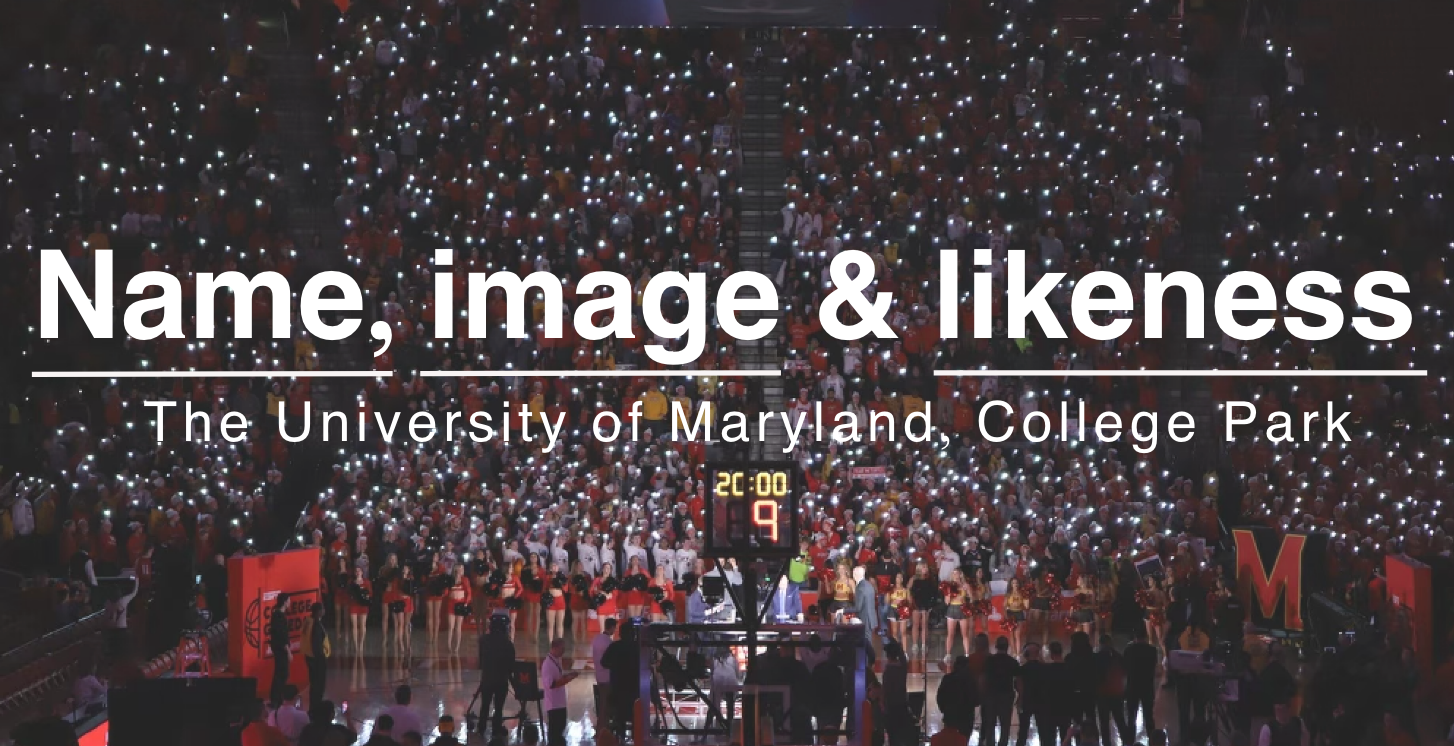
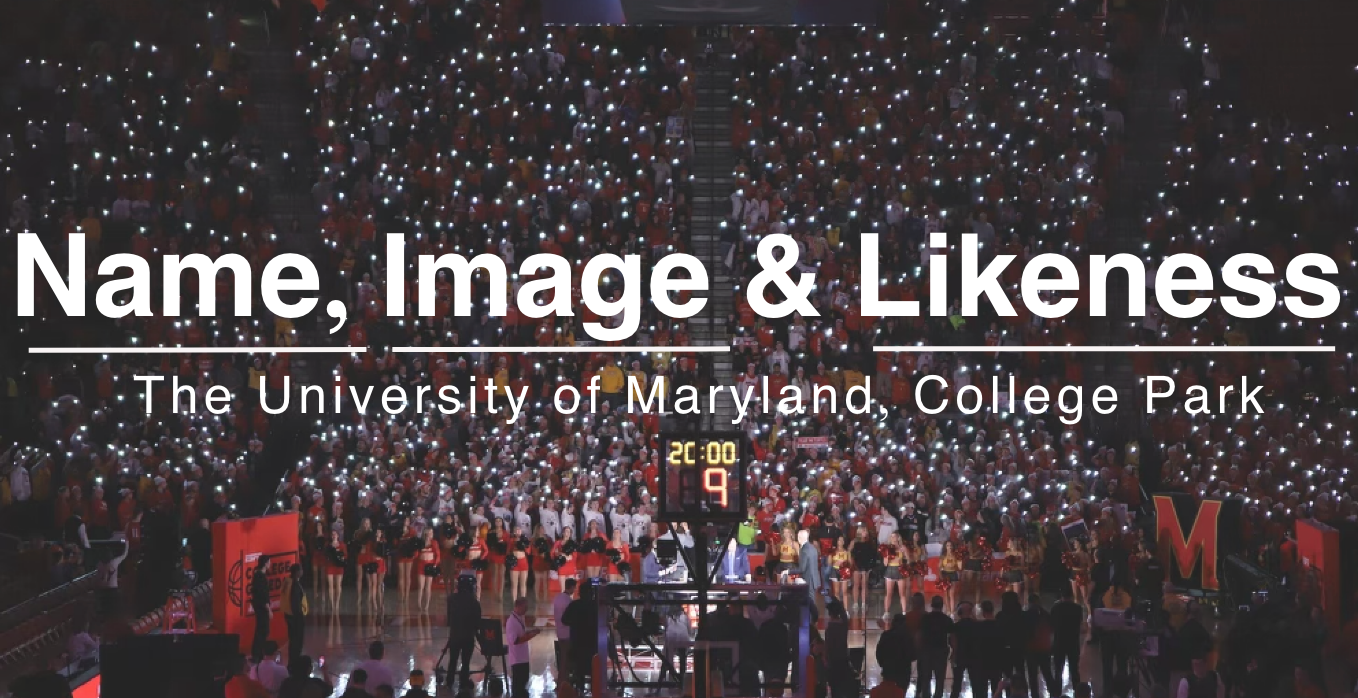
updates

diff --git a/RoshCapstone/legal-capstone.html b/RoshCapstone/legal-capstone.html
@@ -67,7 +67,7 @@
   <div id="padding">
    <div id="about">
  <h1 class="display-4">About Name, Image & Likeness (NIL)</h1>
- <p class="lead">Name, image and likeness are the three elements that make up right of publicity. </p>
+ <p class="lead">Name, image and likeness are the three elements that make up the right of publicity. </p>
 <p> </p>
   <p class="lead">According to the Legal Information Institute, "the right of publicity prevents the unauthorized commercial use of an individual's name, likeness, or other recognizable aspects of one's persona. It gives an individual the exclusive right to license the use of their identity for commercial promotion." </p>
 
@@ -91,7 +91,7 @@
   <div id="padding">
    <div id="maps">
 <h1 class="display-5">Both sides of the argument.</h1>
-<p class="lead">Although legislation is being worked on across the country, some still believe that NIL should not be in place.</p>
+<p class="lead">Although legislation is being developed across the country, some still believe that NIL should not be in place.</p>
 
 <div class="flourish-embed flourish-table" data-src="visualisation/8081473"><script src="https://public.flourish.studio/resources/embed.js"></script></div>
 <link rel="preconnect" href="https://fonts.gstatic.com">
@@ -99,7 +99,7 @@
 <hr class="my-4">
 <div id="padding">
  <div id="Maryland">
-<h1 class="display-5">The University of Maryland's NIL guidelines</h1><h4 class="display-8"> Courtesy of UMTerps </h4>
+<h1 class="display-5">The University of Maryland's NIL Guidelines</h1><h4 class="display-8"> Courtesy of UMTerps </h4>
 <p class="lead"> <div id="word">PURPOSE</div>
 Maryland Athletics is committed to supporting student-athletes and their pursuit of name, image, likeness (NIL) activities in accordance with applicable NCAA, state, and/or federal laws while continuing to uphold the mission of the Athletics Department. These NIL guidelines apply to all student-athletes participating in intercollegiate athletic programs at the University of Maryland and establish clear expectations surrounding a student-athlete’s involvement in permissible NIL activities. Furthermore, these NIL guidelines apply to prospective high school and transfer student-athletes who may attend the University of Maryland.</p>
 
@@ -134,9 +134,9 @@ Failure to disclose your NIL activities may jeopardize your NCAA eligibility for
 <p></p>
 <p></p>
 
-<strong>Q. Can I endorse or sponsor an athletic equipment / apparel company or outfitter?</strong>
+<strong>Q. Can I endorse or sponsor an athletic equipment/apparel company or outfitter?</strong>
 <br>
-<p>A. Yes.  Please remember that institutional marks and logos may not be used --unless approval is given --  in your NIL activities involving the athletic equipment / apparel company or outfitter. Further, NIL activities may not occur during UMD athletically related activities.</p>
+<p>A. Yes.  Please remember that institutional marks and logos may not be used --unless approval is given --  in your NIL activities involving the athletic equipment/apparel company or outfitter. Further, NIL activities may not occur during UMD athletically related activities.</p>
 <p></p>
 <p></p>
 
@@ -191,7 +191,7 @@ Failure to disclose your NIL activities may jeopardize your NCAA eligibility for
 
 <p class="lead">"We are excited to partner with Opendorse and unveil our MOMENTUM program here at the University of Maryland," <a href="https://umterps.com/news/2021/7/1/terrapin-athletics-maryland-athletics-launches-student-athlete-development-program-momentum.aspx"> said athletic director Damon Evans in a release.</a>  "MOMENTUM will prepare our student-athletes with the resources they need heading into the NIL era. Comprehensive education and preparation are vital for all of our Terrapins as we guide them with career and personal-skill development. Opendorse will provide our student-athletes the opportunity to understand Name, Image and Likeness and receive hands-on assistance to build and amplify their personal brands as we position our Terps for current and long-term success."</p>
 
-<p class="lead"> "We are extremely excited about the partnership between Maryland and Opendorse," <a href="https://umterps.com/news/2021/7/1/terrapin-athletics-maryland-athletics-launches-student-athlete-development-program-momentum.aspx"> said Football Coach Michael Locksley.</a> "Maryland is prepared for future NIL legislation and fully invested in building the brands of our student-athletes. We're committed to educating our athletes and giving them every resource possible to MAXIMIZE their platforms." </p>
+<p class="lead"> "We are extremely excited about the partnership between Maryland and Opendorse," <a href="https://umterps.com/news/2021/7/1/terrapin-athletics-maryland-athletics-launches-student-athlete-development-program-momentum.aspx"> said football coach Michael Locksley.</a> "Maryland is prepared for future NIL legislation and fully invested in building the brands of our student-athletes. We're committed to educating our athletes and giving them every resource possible to MAXIMIZE their platforms." </p>
 
 
 <p class="lead"> "We are thrilled to partner with Opendorse to help our student-athletes make the most of the opportunities in front of them,"<a href="https://umterps.com/news/2021/7/1/terrapin-athletics-maryland-athletics-launches-student-athlete-development-program-momentum.aspx"> said women's basketball coach Brenda Frese. </a> "This will help our student-athletes with the NIL process tremendously. Here at Maryland, we have a phenomenal audience being in this media market. This will help our students set themselves up for success."
